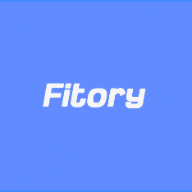
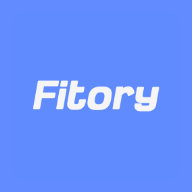
📦 [chore] #498 : 홈 화면에 올바른 앱 로고가 생성되도록 개선

Changed region(s): [[0.1562, 0.4062, 0.8438, 0.5938], [0.0, 0.9688, 1.0, 1.0], [0.0, 0.0, 1.0, 0.0312]]

diff --git a/client/public/index.html b/client/public/index.html
@@ -32,8 +32,8 @@
       media="screen and (device-width: 375px) and (device-height: 667px) and (-webkit-device-pixel-ratio: 2) and (orientation: portrait)"
       href="appImages/launchericon-512.png"
     />
-    <link rel="shortcut icon" type="image/png" href="appImages/launchericon-64.png" />
-    <link rel="icon" type="image/png" href="appImages/launchericon-64.png" />
+    <link rel="shortcut icon" type="image/png" href="appImages/favicon.ico" />
+    <link rel="icon" type="image/png" href="appImages/favicon.ico" />
     <base href="/" />
     <title>Fitory</title>
   </head>

diff --git a/client/webpack.config.js b/client/webpack.config.js
@@ -11,7 +11,7 @@ const loadPlugin = () => {
     new HtmlWebpackPlugin({
       template: "/public/index.html",
       hash: true,
-      favicon: "public/appImages/launchericon-64.png",
+      favicon: "public/appImages/favicon.ico",
       minify:
         process.env.NODE_ENV === "production"
           ? {
